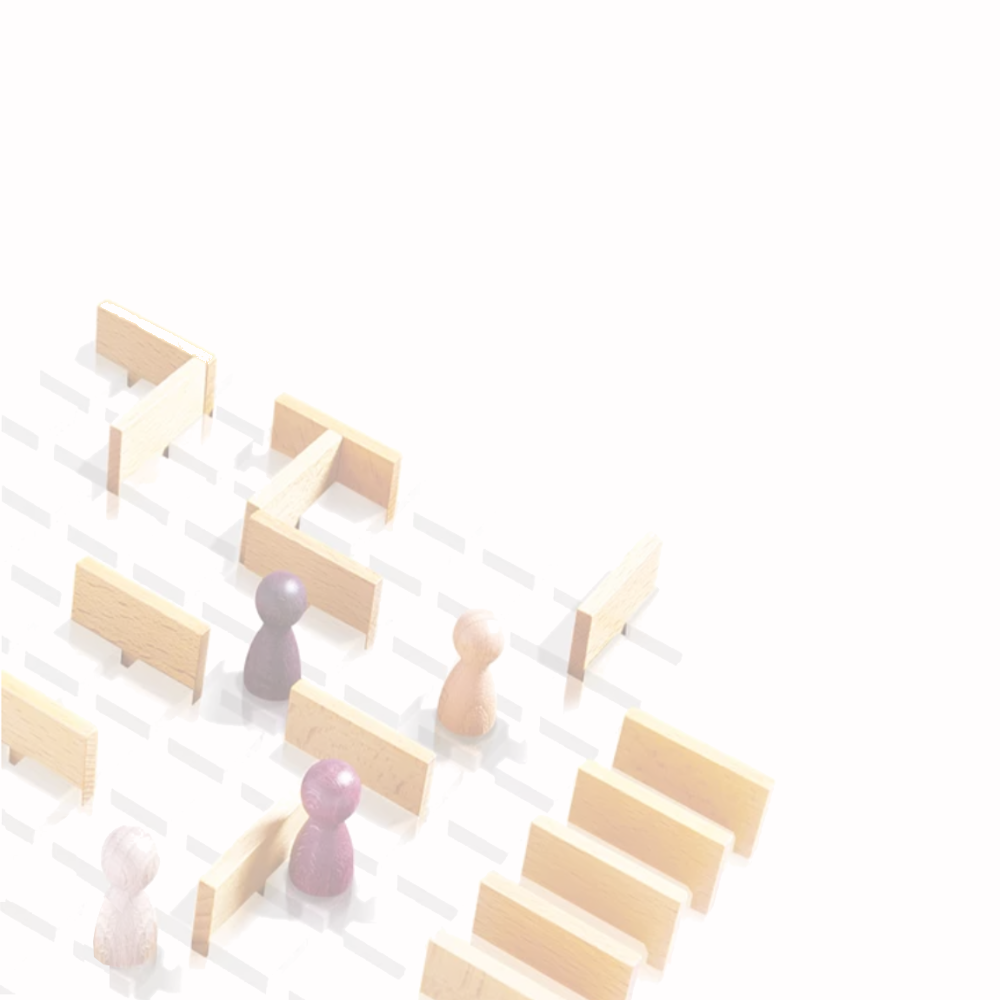
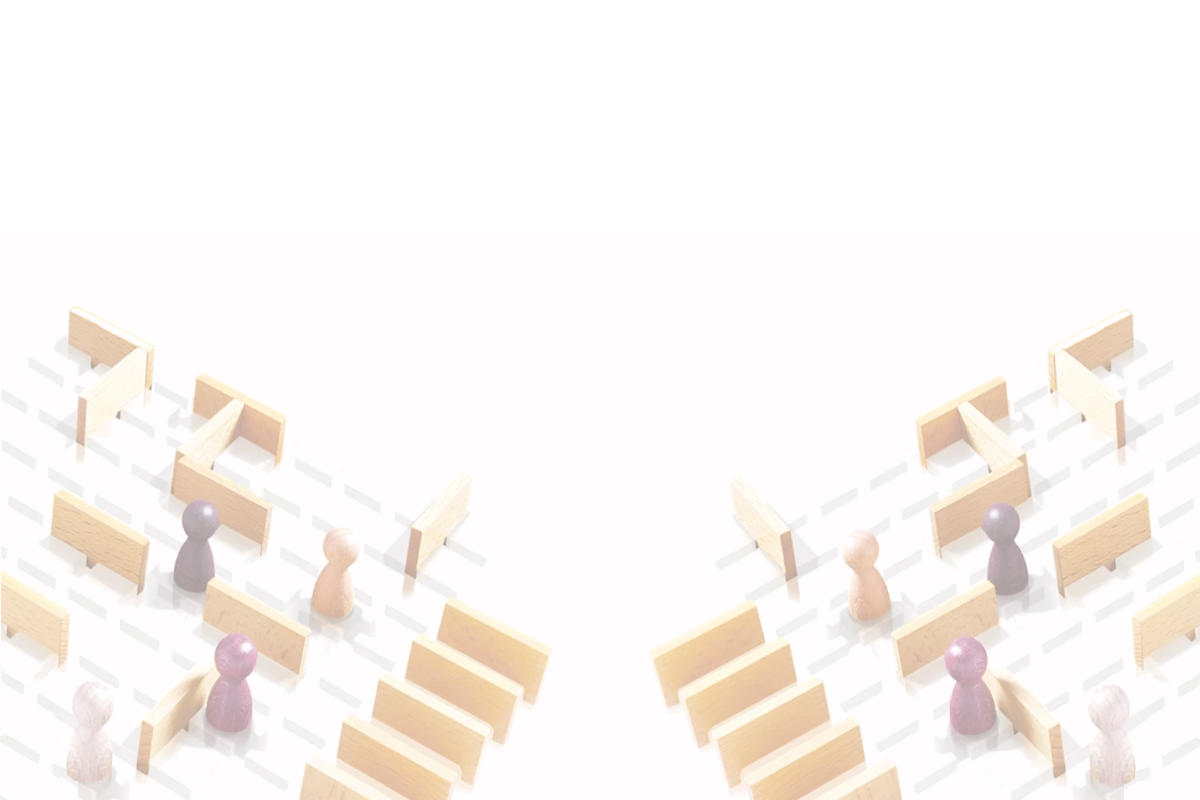
new background image. changed sub header text on load game.

diff --git a/src/MainWindow.java b/src/MainWindow.java
@@ -52,13 +52,12 @@ public class MainWindow extends JFrame {
 		this.add(mainWindow);
 
 		// add the background image to this frame (wrapped in a JLabel).
-		// panels displayed on top (ie: instructions panel) will be transparent except
-		// for text/buttons
-		//ImageIcon backgroundImage = new ImageIcon(getClass().getResource("/Assets/menuBkg.png"));
-		//JLabel frameBackground = new JLabel(backgroundImage);
-		//frameBackground.setBounds(0, 0, 1200, 800); //TODO: Updated background image
+		// panels displayed on top (ie: instructions panel) will be transparent except for text and buttons
+		ImageIcon backgroundImage = new ImageIcon(getClass().getResource("/Assets/menuBkg.png"));
+		JLabel frameBackground = new JLabel(backgroundImage);
+		frameBackground.setBounds(0, 0, 1200, 800); //TODO: Updated background image
 		// background image is on DEFAULT (bottom) layer.
-		//mainWindow.add(frameBackground, JLayeredPane.DEFAULT_LAYER);
+		mainWindow.add(frameBackground, JLayeredPane.DEFAULT_LAYER);
 
 		// store a static ref to this window in GameSettings.
 		// can be accessed anywhere by GameSettings.GetMainWindow()

diff --git a/src/LoadGameMenu.java b/src/LoadGameMenu.java
@@ -52,7 +52,7 @@ public class LoadGameMenu extends JPanel implements ActionListener {
 		loadGameHeaderLabel.setHorizontalAlignment(JLabel.CENTER);
 		loadGameHeaderLabel.setVerticalAlignment(JLabel.CENTER);
 
-		instructionsLoadGameLabel = new JLabel("Please choose a Save to load game:");
+		instructionsLoadGameLabel = new JLabel("Please select a save file");
 		instructionsLoadGameLabel.setFont(MainWindow.orbitron.deriveFont(32f));
 		instructionsLoadGameLabel.setForeground(Color.black);
 		instructionsLoadGameLabel.setAlignmentX(CENTER_ALIGNMENT);

diff --git a/src/MainMenu.java b/src/MainMenu.java
@@ -65,8 +65,8 @@ public class MainMenu extends JPanel implements ActionListener {
 
 		// add buttons to sub panel (for organization)
 		menuButtonsPanel = new JPanel();
-		menuButtonsPanel.setBounds(850, 500, 400, 400);
-		EmptyBorder border1 = new EmptyBorder(100, 0, 300, 40);
+		menuButtonsPanel.setBounds(0, 0, 400, 400);
+		EmptyBorder border1 = new EmptyBorder(100, 100, 300, 550);
 		menuButtonsPanel.setBorder(border1);
 		menuButtonsPanel.setLayout(new GridLayout(4, 1));
 		menuButtonsPanel.setOpaque(false);
